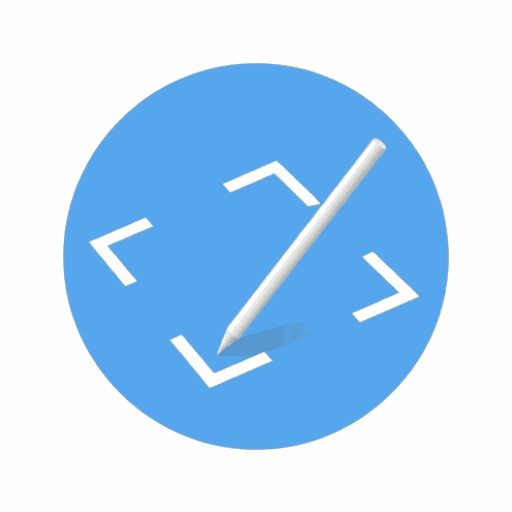
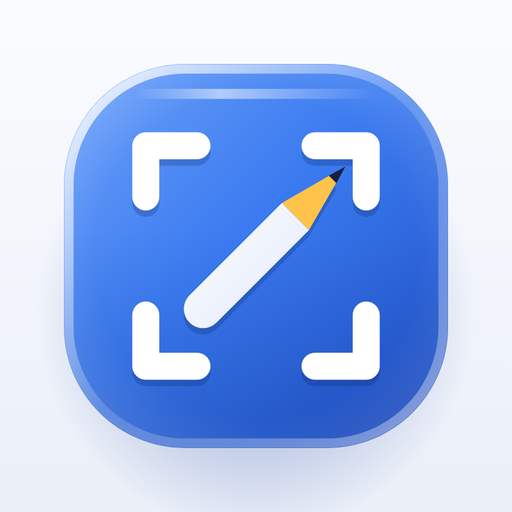
캡처 필굿 페이지 아이콘을 새 유리판 아이콘으로 바꿈
Refs philaxis/spen-capture#4
- public/capture/icon.png: 새 Play 스토어 512px 아이콘
- og-ko.png·og-en.png: scripts/capture-og.html로 다시 찍음

diff --git a/app/capture/facts.ts b/app/capture/facts.ts
@@ -1,6 +1,7 @@
 // Everything about CAPTURE philgood that changes when the app changes, in one place.
 // Checked against philaxis/spen-capture main on 2026-11-20. The icon lives at
-// public/capture/icon.png; swap that file when spen-capture#4 lands.
+// public/capture/icon.png (the Play Store 512px icon from spen-capture#4); when it
+// changes, re-shoot og-<lang>.png with scripts/capture-og.html.
 
 import type { Lang } from "../copy";
 
